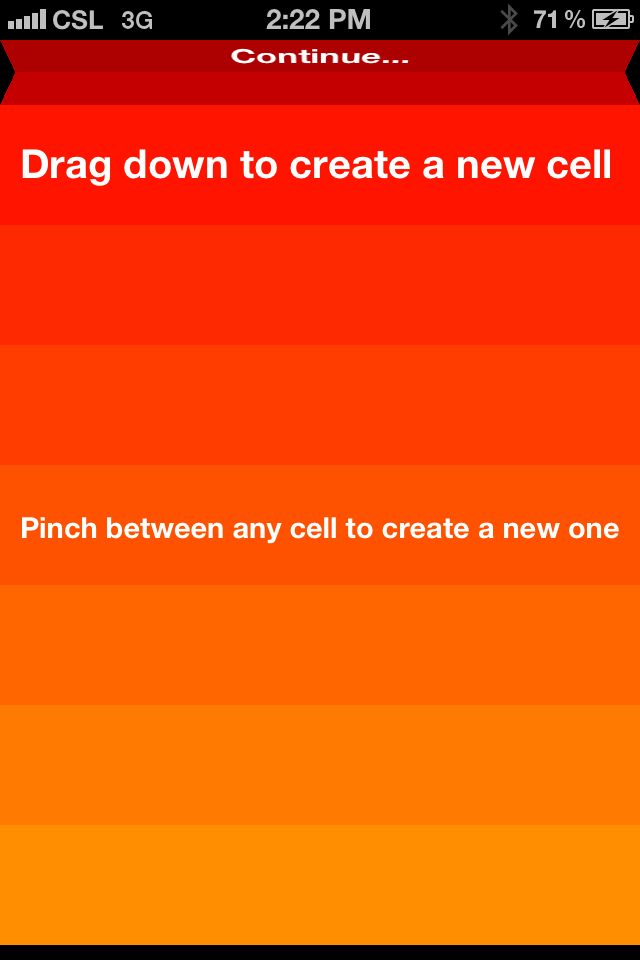
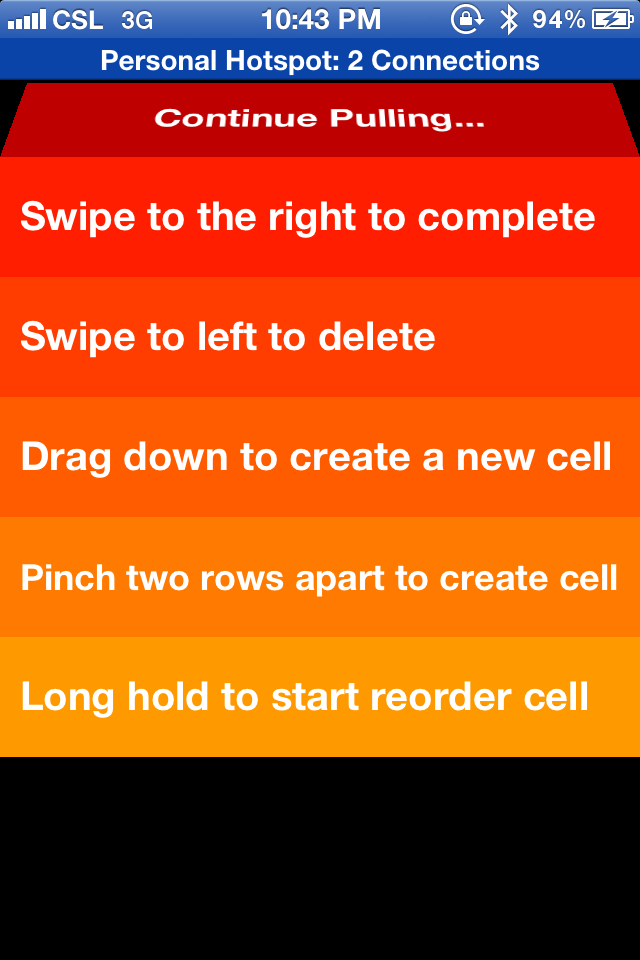
- Added TransformableTableViewCellStyle to configure between Unfolding and PullDown cell style

diff --git a/JTGestureBasedTableView/TransformableTableViewCell.m b/JTGestureBasedTableView/TransformableTableViewCell.m
@@ -10,9 +10,16 @@
 #import "UIColor+JTGestureBasedTableViewHelper.h"
 #import <QuartzCore/QuartzCore.h>
 
-@implementation TransformableTableViewCell
 
-@synthesize finishedHeight, tintColor;
+@interface JTUnfoldingTableViewCell : TransformableTableViewCell
+@end
+
+@interface JTPullDownTableViewCell : TransformableTableViewCell
+@end
+
+#pragma mark -
+
+@implementation JTUnfoldingTableViewCell
 
 - (id)initWithStyle:(UITableViewCellStyle)style reuseIdentifier:(NSString *)reuseIdentifier
 {
@@ -35,13 +42,6 @@
         self.tintColor = [UIColor whiteColor];
     }
     return self;
-}
-
-- (void)setSelected:(BOOL)selected animated:(BOOL)animated
-{
-    [super setSelected:selected animated:animated];
-
-    // Configure the view for the selected state
 }
 
 - (void)layoutSubviews {
@@ -68,6 +68,85 @@
                                       contentViewSize.width, labelHeight + 1);
     self.detailTextLabel.frame = CGRectMake(0, contentViewMidY - (labelHeight * (1 - fraction)),
                                             contentViewSize.width, labelHeight);
+}
+
+@end
+
+@implementation JTPullDownTableViewCell
+
+- (id)initWithStyle:(UITableViewCellStyle)style reuseIdentifier:(NSString *)reuseIdentifier
+{
+    self = [super initWithStyle:style reuseIdentifier:reuseIdentifier];
+    if (self) {
+        // Initialization code
+        
+        CATransform3D transform = CATransform3DIdentity;
+        transform.m34 = -1/500.f;
+        [self.contentView.layer setSublayerTransform:transform];
+        
+        self.textLabel.layer.anchorPoint = CGPointMake(0.5, 1.0);
+        
+        self.selectionStyle = UITableViewCellSelectionStyleNone;
+        
+        self.textLabel.autoresizingMask = UIViewAutoresizingFlexibleHeight;
+        
+        self.tintColor = [UIColor whiteColor];
+    }
+    return self;
+}
+
+- (void)layoutSubviews {
+    [super layoutSubviews];
+    
+    CGFloat fraction = (self.frame.size.height / self.finishedHeight);
+    fraction = MAX(MIN(1, fraction), 0);
+    
+    CGFloat angle = (M_PI / 2) - asinf(fraction);
+    CATransform3D transform = CATransform3DMakeRotation(angle, 1, 0, 0);
+    [self.textLabel.layer setTransform:transform];
+    
+    self.textLabel.backgroundColor       = [self.tintColor colorWithBrightness:0.3 + 0.7*fraction];
+    
+    CGSize contentViewSize = self.contentView.frame.size;
+    CGFloat labelHeight = self.finishedHeight;
+    
+    // OPTI: Always accomodate 1 px to the top label to ensure two labels 
+    // won't display one px gap in between sometimes for certain angles 
+    self.textLabel.frame = CGRectMake(0, contentViewSize.height - labelHeight,
+                                      contentViewSize.width, labelHeight);
+}
+
+@end
+
+
+
+#pragma mark -
+
+@implementation TransformableTableViewCell
+@synthesize finishedHeight, tintColor;
+
++ (TransformableTableViewCell *)unfoldingTableViewCellWithReuseIdentifier:(NSString *)reuseIdentifier {
+    JTUnfoldingTableViewCell *cell = (id)[[JTUnfoldingTableViewCell alloc] initWithStyle:UITableViewCellStyleSubtitle
+                                                                           reuseIdentifier:reuseIdentifier];
+    return cell;
+}
+
++ (TransformableTableViewCell *)pullDownTableViewCellWithReuseIdentifier:(NSString *)reuseIdentifier {
+    JTPullDownTableViewCell *cell = (id)[[JTPullDownTableViewCell alloc] initWithStyle:UITableViewCellStyleDefault
+                                                                          reuseIdentifier:reuseIdentifier];
+    return cell;
+}
+
++ (TransformableTableViewCell *)transformableTableViewCellWithStyle:(TransformableTableViewCellStyle)style reuseIdentifier:(NSString *)reuseIdentifier {
+    switch (style) {
+        case TransformableTableViewCellStylePullDown:
+            return [TransformableTableViewCell pullDownTableViewCellWithReuseIdentifier:reuseIdentifier];
+            break;
+        case TransformableTableViewCellStyleUnfolding:
+        default:
+            return [TransformableTableViewCell unfoldingTableViewCellWithReuseIdentifier:reuseIdentifier];
+            break;
+    }
 }
 
 @end

diff --git a/JTGestureBasedTableViewDemo/ViewController.m b/JTGestureBasedTableViewDemo/ViewController.m
@@ -75,27 +75,61 @@
     NSObject *object = [self.rows objectAtIndex:indexPath.row];
     UIColor *backgroundColor = [[UIColor redColor] colorWithHueOffset:0.12 * indexPath.row / [self tableView:tableView numberOfRowsInSection:indexPath.section]];
     if ([object isEqual:ADDING_CELL]) {
-        static NSString *cellIdentifier = @"TransformableTableViewCell";
-        TransformableTableViewCell *cell = [tableView dequeueReusableCellWithIdentifier:cellIdentifier];
-        if (cell == nil) {
-            cell = [[TransformableTableViewCell alloc] initWithStyle:UITableViewCellStyleSubtitle reuseIdentifier:cellIdentifier];
-            cell.textLabel.adjustsFontSizeToFitWidth = YES;
-            cell.textLabel.textColor = [UIColor whiteColor];
-            cell.textLabel.textAlignment = UITextAlignmentCenter;
-        }
+        NSString *cellIdentifier = nil;
+        TransformableTableViewCell *cell = nil;
 
-        // Setup tint color
-        cell.tintColor = backgroundColor;
+        // IndexPath.row == 0 is the case we wanted to pick the pullDown style
+        if (indexPath.row == 0) {
+            cellIdentifier = @"PullDownTableViewCell";
+            cell = [tableView dequeueReusableCellWithIdentifier:cellIdentifier];
+            
+            if (cell == nil) {
+                cell = [TransformableTableViewCell transformableTableViewCellWithStyle:TransformableTableViewCellStylePullDown
+                                                                       reuseIdentifier:cellIdentifier];
+                cell.textLabel.adjustsFontSizeToFitWidth = YES;
+                cell.textLabel.textColor = [UIColor whiteColor];
+                cell.textLabel.textAlignment = UITextAlignmentCenter;
+            }
+            
+            // Setup tint color
+            cell.tintColor = backgroundColor;
+            
+            cell.finishedHeight = COMMITING_CREATE_CELL_HEIGHT;
+            if (cell.frame.size.height > COMMITING_CREATE_CELL_HEIGHT) {
+                cell.textLabel.text = @"Release to create cell...";
+            } else {
+                cell.textLabel.text = @"Continue Pulling...";
+            }
+            cell.contentView.backgroundColor = [UIColor clearColor];
+            cell.detailTextLabel.text = @" ";
+            return cell;
 
-        cell.finishedHeight = COMMITING_CREATE_CELL_HEIGHT;
-        if (cell.frame.size.height > COMMITING_CREATE_CELL_HEIGHT) {
-            cell.textLabel.text = @"Release to create cell...";
         } else {
-            cell.textLabel.text = (NSString *)object;
+            // Otherwise is the case we wanted to pick the pullDown style
+            cellIdentifier = @"UnfoldingTableViewCell";
+            cell = [tableView dequeueReusableCellWithIdentifier:cellIdentifier];
+
+            if (cell == nil) {
+                cell = [TransformableTableViewCell transformableTableViewCellWithStyle:TransformableTableViewCellStyleUnfolding
+                                                                       reuseIdentifier:cellIdentifier];
+                cell.textLabel.adjustsFontSizeToFitWidth = YES;
+                cell.textLabel.textColor = [UIColor whiteColor];
+                cell.textLabel.textAlignment = UITextAlignmentCenter;
+            }
+            
+            // Setup tint color
+            cell.tintColor = backgroundColor;
+            
+            cell.finishedHeight = COMMITING_CREATE_CELL_HEIGHT;
+            if (cell.frame.size.height > COMMITING_CREATE_CELL_HEIGHT) {
+                cell.textLabel.text = @"Release to create cell...";
+            } else {
+                cell.textLabel.text = @"Continue Pinching...";
+            }
+            cell.contentView.backgroundColor = [UIColor clearColor];
+            cell.detailTextLabel.text = @" ";
+            return cell;
         }
-        cell.contentView.backgroundColor = [UIColor clearColor];
-        cell.detailTextLabel.text = @" ";
-        return cell;
     
     } else {
 

diff --git a/JTGestureBasedTableView/TransformableTableViewCell.h b/JTGestureBasedTableView/TransformableTableViewCell.h
@@ -8,9 +8,24 @@
 
 #import <UIKit/UIKit.h>
 
-@interface TransformableTableViewCell : UITableViewCell
+typedef enum {
+    TransformableTableViewCellStyleUnfolding,
+    TransformableTableViewCellStylePullDown,
+} TransformableTableViewCellStyle;
+
+
+@protocol TransformableTableViewCell <NSObject>
 
 @property (nonatomic, assign) CGFloat  finishedHeight;
 @property (nonatomic, retain) UIColor *tintColor;   // default is white color
+
+@end
+
+
+@interface TransformableTableViewCell : UITableViewCell <TransformableTableViewCell>
+
+// Use this factory method instead of 
+// - (id)initWithStyle:(UITableViewCellStyle)style reuseIdentifier:(NSString *)reuseIdentifier;
++ (TransformableTableViewCell *)transformableTableViewCellWithStyle:(TransformableTableViewCellStyle)style reuseIdentifier:(NSString *)reuseIdentifier;
 
 @end
